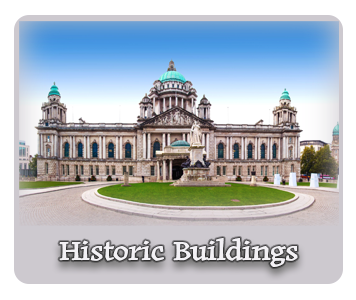
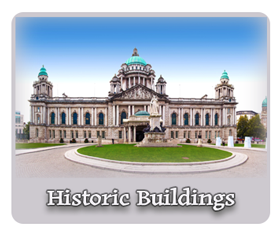
Updates to images

Changed region(s): [[0.0571, 0.2076, 0.9714, 0.7119], [0.0857, 0.7712, 0.9143, 0.9492], [0.1143, 0.0593, 0.9143, 0.089]]

diff --git a/src/app/alt-colours/blueygrey/bluey-components/TourOptionsChecklistBluey.js b/src/app/alt-colours/blueygrey/bluey-components/TourOptionsChecklistBluey.js
@@ -23,7 +23,7 @@ const BuildingCard = () => {
       src="/img/selection-card-buildings-bluey.png"
       alt="Tour of Belfast"
       width={280}
-      height={250}
+      height={236}
       priority
     />
   );
@@ -35,7 +35,7 @@ const StatuesCard = () => {
       src="/img/selection-card-statues-bluey.png"
       alt="Tour of Belfast"
       width={280}
-      height={250}
+      height={236}
       priority
     />
   );
@@ -47,7 +47,7 @@ const LandmarkCard = () => {
       src="/img/selection-card-monuments-bluey.png"
       alt="Tour of Belfast"
       width={280}
-      height={250}
+      height={236}
       priority
     />
   );

diff --git a/src/app/alt-colours/peachypink/peachy-components/TourOptionsChecklistPeachy.js b/src/app/alt-colours/peachypink/peachy-components/TourOptionsChecklistPeachy.js
@@ -23,7 +23,7 @@ const BuildingCard = () => {
       src="/img/selection-card-buildings-pink.png"
       alt="Tour of Belfast"
       width={280}
-      height={250}
+      height={236}
       priority
     />
   );
@@ -35,7 +35,7 @@ const StatuesCard = () => {
       src="/img/selection-card-statues-pink.png"
       alt="Tour of Belfast"
       width={280}
-      height={250}
+      height={236}
       priority
     />
   );
@@ -47,7 +47,7 @@ const LandmarkCard = () => {
       src="/img/selection-card-monuments-pink.png"
       alt="Tour of Belfast"
       width={280}
-      height={250}
+      height={236}
       priority
     />
   );

diff --git a/src/app/components/purple-components/TourOptionsChecklist.js b/src/app/components/purple-components/TourOptionsChecklist.js
@@ -22,7 +22,7 @@ const BuildingCard = () => {
       src="/img/selection-card-buildings.png"
       alt="Tour of Belfast"
       width={280}
-      height={250}
+      height={236}
       priority
     />
   );
@@ -34,7 +34,7 @@ const StatuesCard = () => {
       src="/img/selection-card-statues.png"
       alt="Tour of Belfast"
       width={280}
-      height={250}
+      height={236}
       priority
     />
   );
@@ -46,7 +46,7 @@ const LandmarkCard = () => {
       src="/img/selection-card-monuments.png"
       alt="Tour of Belfast"
       width={280}
-      height={250}
+      height={236}
       priority
     />
   );

diff --git a/src/app/alt-colours/peachypink/peachypink.css b/src/app/alt-colours/peachypink/peachypink.css
@@ -12,8 +12,8 @@
     "Fira Mono", "Droid Sans Mono", "Courier New", monospace;
 
   --foreground-rgb: 0, 0, 0;
-  --background-start-rgb: 243, 156, 162; 
-  --background-end-rgb: 243, 156, 162; 
+  --background-start-rgb: 247, 200, 200; 
+  --background-end-rgb: 247, 200, 200;
 
 
   --primary-glow: conic-gradient(
